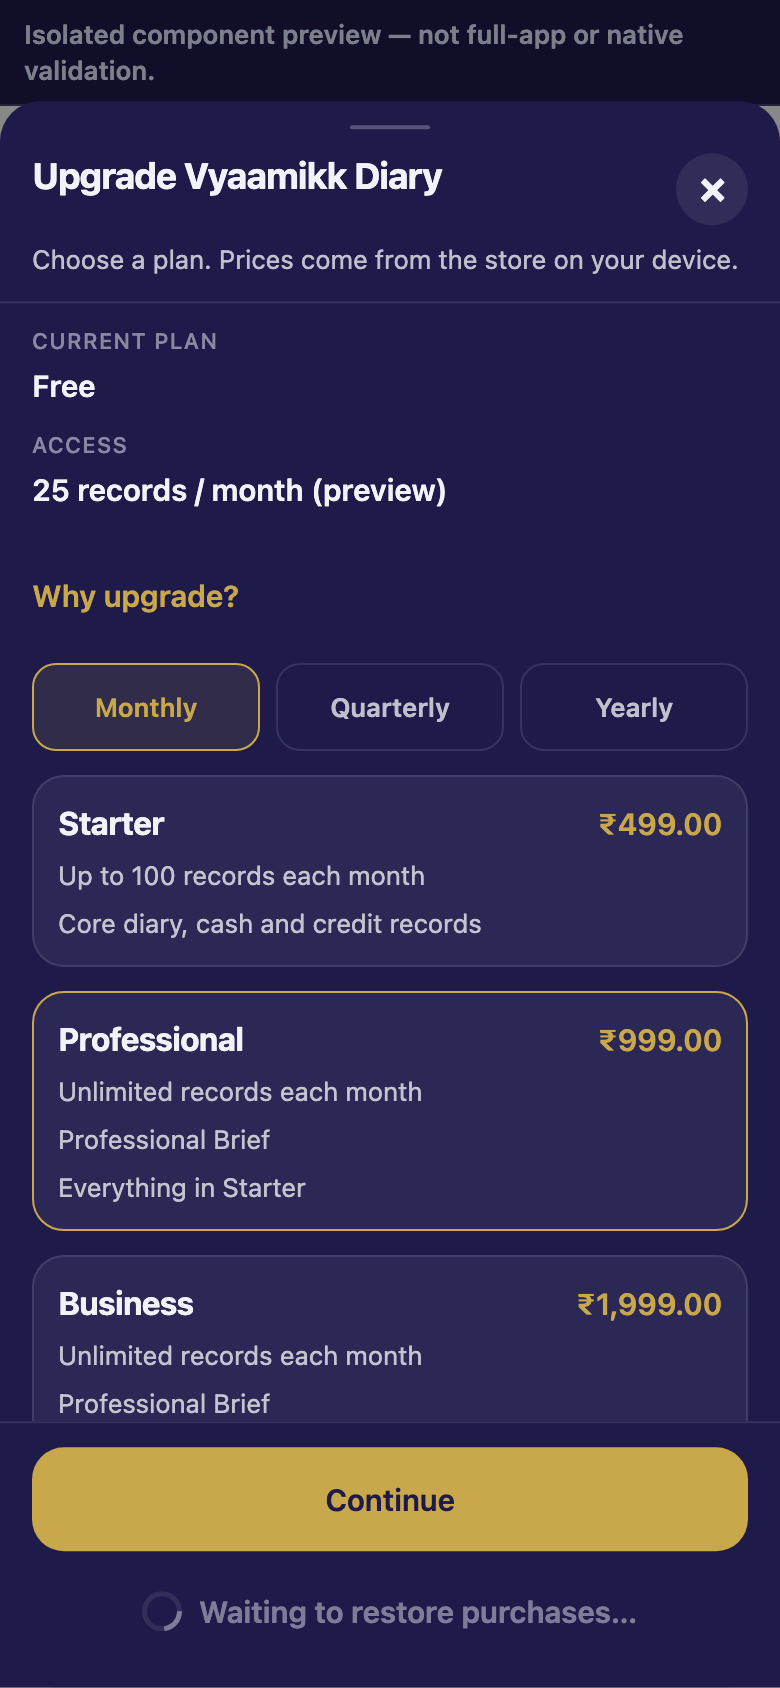
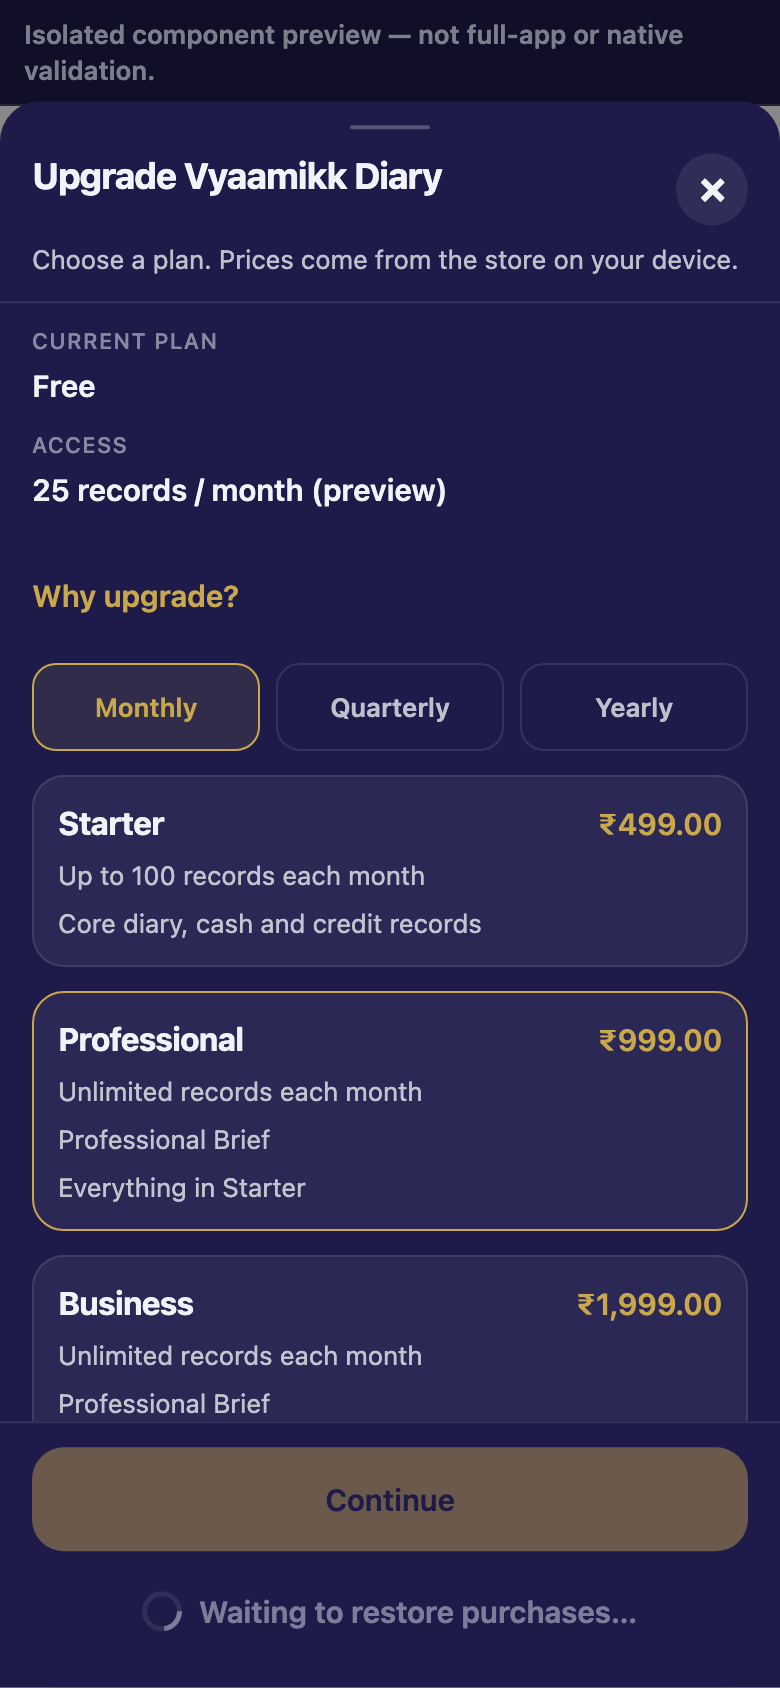
VYD-37: recapture pending paywall states from the shared-dispatch UI SHA.
Evidence records capturedCodeSha f0842e2; purchase-pending and restore-pending now show the opposing CTA disabled.

Changed region(s): [[0.0308, 0.8318, 0.9846, 0.9242]]

diff --git a/tools/billing-ux-harness/captures/isolated-contact-sheet.html b/tools/billing-ux-harness/captures/isolated-contact-sheet.html
@@ -9,7 +9,7 @@ figcaption{margin-top:6px;word-break:break-word}
 .banner{padding:12px 16px;background:#1E1B4B}
 </style>
 <p class="banner">Isolated component preview — not full-app or native validation.</p>
-<h1>VYD-37 isolated captures · 8dba0e29050a</h1>
+<h1>VYD-37 isolated captures · f0842e2cd703</h1>
 <div class="grid"><figure><img src="isolated-hub-en.png" alt="hub-en-phone-390x844" /><figcaption>isolated-hub-en.png<br/>hub-en-phone-390x844<br/>390×844 dpr=2 lang=en</figcaption></figure>
 <figure><img src="isolated-hub-en-scrolled.png" alt="hub-en-scrolled-end" /><figcaption>isolated-hub-en-scrolled.png<br/>hub-en-scrolled-end<br/>390×844 dpr=2 lang=en</figcaption></figure>
 <figure><img src="isolated-hub-en-narrow.png" alt="hub-en-narrow-320x720" /><figcaption>isolated-hub-en-narrow.png<br/>hub-en-narrow-320x720<br/>320×720 dpr=2 lang=en</figcaption></figure>
